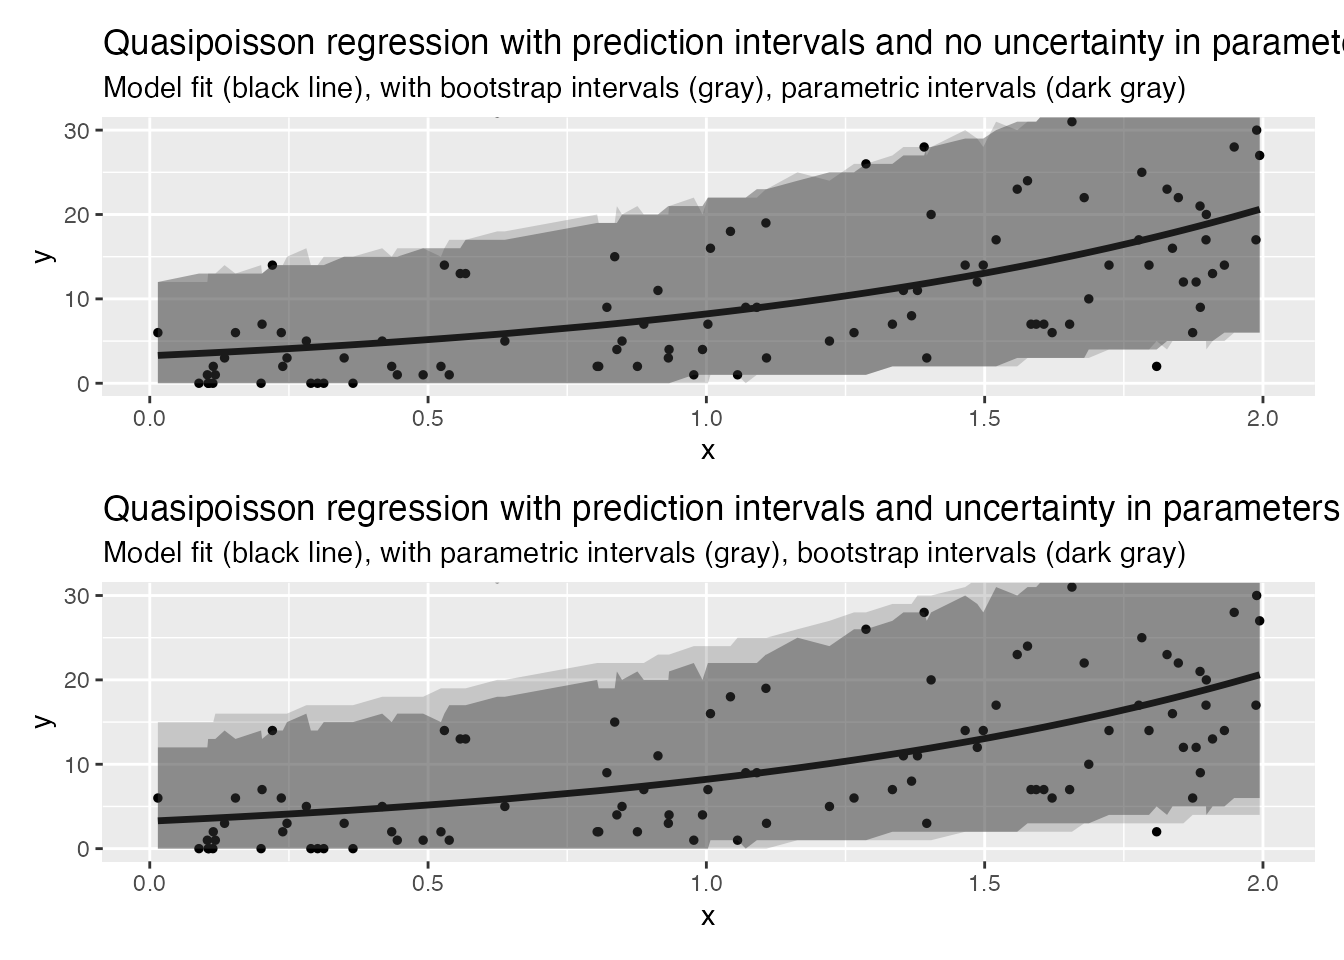
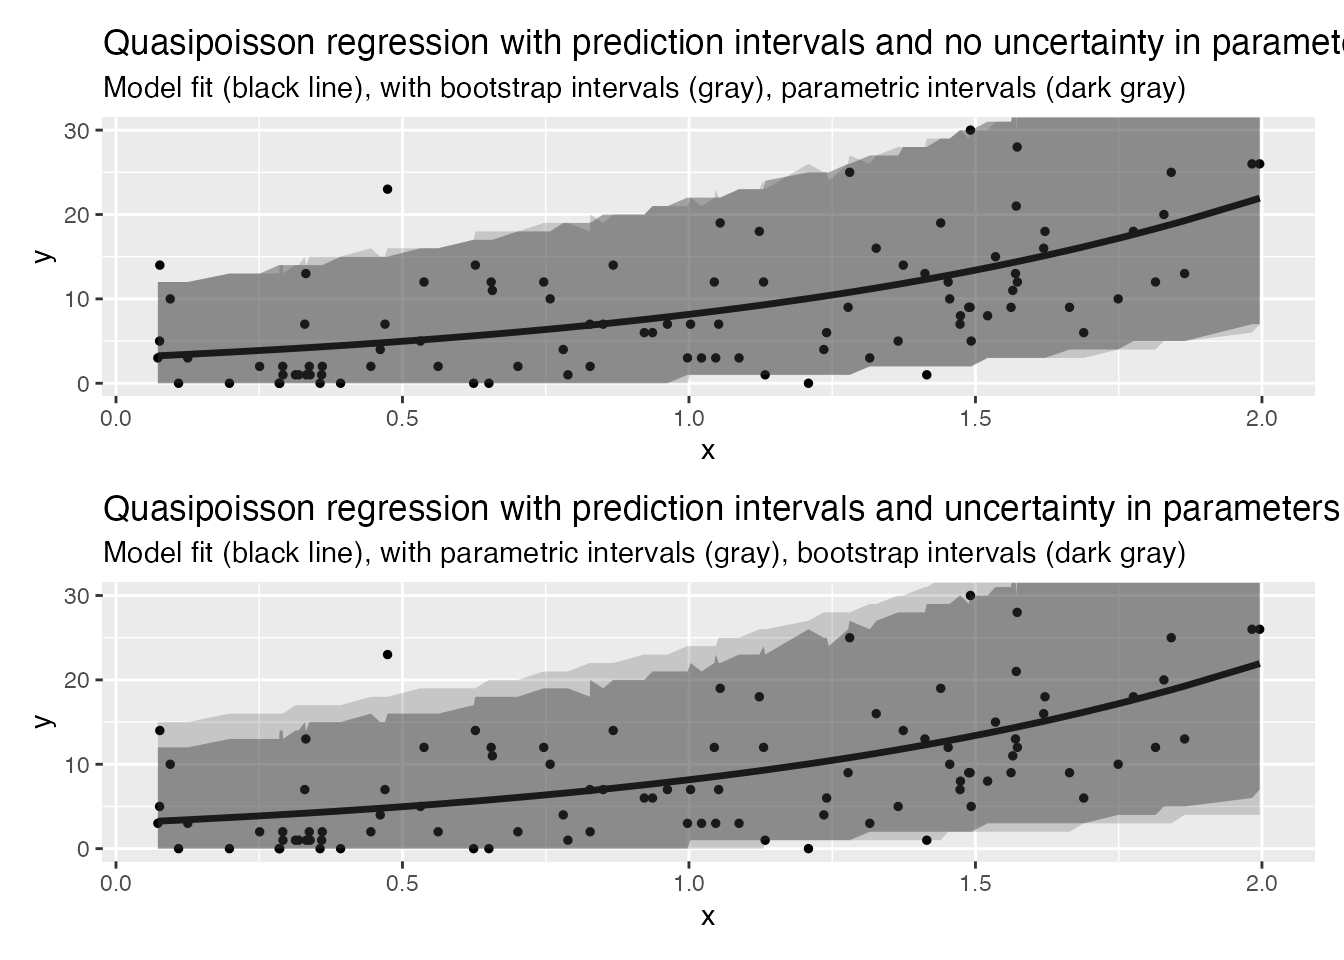
Built site for trending: 0.0.3.9000@8ba3cc6

diff --git a/articles/prediction_intervals.html b/articles/prediction_intervals.html
@@ -141,13 +141,13 @@
 <span class="co">#&gt; Warning in add_pi.glm(dat, fit, names = c("lpb", "upb"), alpha = 0.1, nsims =</span>
 <span class="co">#&gt; 20000): The response is not continuous, so Prediction Intervals are approximate</span>
 <span class="fu"><a href="https://rdrr.io/r/utils/head.html">head</a></span><span class="op">(</span><span class="va">dat1</span><span class="op">)</span>
-<span class="co">#&gt;            x  y     pred lpb upb</span>
-<span class="co">#&gt; 1  0.8838332  7 6.757453   3  11</span>
-<span class="co">#&gt; 2  1.7245814 12 9.931148   5  16</span>
-<span class="co">#&gt; 3  1.0702044  7 7.359535   3  12</span>
-<span class="co">#&gt; 4 -0.3417682  5 3.854989   1   8</span>
-<span class="co">#&gt; 5 -0.6344214  2 3.371455   1   6</span>
-<span class="co">#&gt; 6  0.3210737  6 5.222228   2   9</span>
+<span class="co">#&gt;            x y     pred lpb upb</span>
+<span class="co">#&gt; 1  0.6699941 1 6.518009   3  11</span>
+<span class="co">#&gt; 2 -1.5373920 1 2.231236   0   5</span>
+<span class="co">#&gt; 3 -1.2001174 1 2.628340   0   6</span>
+<span class="co">#&gt; 4 -1.4118811 2 2.371470   0   5</span>
+<span class="co">#&gt; 5 -0.3488140 0 3.974053   1   8</span>
+<span class="co">#&gt; 6 -0.5392615 2 3.622977   1   7</span>
 
 <span class="co"># add intervals with trending (no uncertainty in parameters)</span>
 <span class="va">poisson_model</span> <span class="op">&lt;-</span> <span class="fu"><a href="../reference/trending_model.html">glm_model</a></span><span class="op">(</span><span class="va">y</span> <span class="op">~</span> <span class="va">x</span>, family <span class="op">=</span> <span class="st">"poisson"</span><span class="op">)</span>
@@ -158,12 +158,12 @@
 <span class="co">#&gt; &lt;trending_estimate&gt; 6 x 7</span>
 <span class="co">#&gt;       y      x estimate lower_ci upper_ci lower_pi upper_pi</span>
 <span class="co">#&gt;   &lt;int&gt;  &lt;dbl&gt;    &lt;dbl&gt;    &lt;dbl&gt;    &lt;dbl&gt;    &lt;dbl&gt;    &lt;dbl&gt;</span>
-<span class="co">#&gt; 1     7  0.884     6.76     6.24     7.32        3       11</span>
-<span class="co">#&gt; 2    12  1.72      9.93     8.82    11.2         5       15</span>
-<span class="co">#&gt; 3     7  1.07      7.36     6.75     8.02        3       12</span>
-<span class="co">#&gt; 4     5 -0.342     3.85     3.50     4.24        1        7</span>
-<span class="co">#&gt; 5     2 -0.634     3.37     3.02     3.77        1        7</span>
-<span class="co">#&gt; 6     6  0.321     5.22     4.85     5.62        2        9</span>
+<span class="co">#&gt; 1     1  0.670     6.52     6.08     6.99        3       11</span>
+<span class="co">#&gt; 2     1 -1.54      2.23     1.88     2.65        0        5</span>
+<span class="co">#&gt; 3     1 -1.20      2.63     2.26     3.06        0        6</span>
+<span class="co">#&gt; 4     2 -1.41      2.37     2.01     2.80        0        5</span>
+<span class="co">#&gt; 5     0 -0.349     3.97     3.60     4.39        1        7</span>
+<span class="co">#&gt; 6     2 -0.539     3.62     3.25     4.04        1        7</span>
 
 <span class="co"># add intervals with trending (uncertainty in parameters)</span>
 <span class="va">dat3</span> <span class="op">&lt;-</span> <span class="fu"><a href="https://rdrr.io/r/stats/predict.html">predict</a></span><span class="op">(</span><span class="va">fitted_model</span>, simulate_pi <span class="op">=</span> <span class="cn">FALSE</span>, alpha <span class="op">=</span> <span class="fl">0.1</span><span class="op">)</span>
@@ -172,12 +172,12 @@
 <span class="co">#&gt; &lt;trending_estimate&gt; 6 x 7</span>
 <span class="co">#&gt;       y      x estimate lower_ci upper_ci lower_pi upper_pi</span>
 <span class="co">#&gt;   &lt;int&gt;  &lt;dbl&gt;    &lt;dbl&gt;    &lt;dbl&gt;    &lt;dbl&gt;    &lt;dbl&gt;    &lt;dbl&gt;</span>
-<span class="co">#&gt; 1     7  0.884     6.76     6.24     7.32        2       12</span>
-<span class="co">#&gt; 2    12  1.72      9.93     8.82    11.2         4       17</span>
-<span class="co">#&gt; 3     7  1.07      7.36     6.75     8.02        3       13</span>
-<span class="co">#&gt; 4     5 -0.342     3.85     3.50     4.24        1        8</span>
-<span class="co">#&gt; 5     2 -0.634     3.37     3.02     3.77        1        7</span>
-<span class="co">#&gt; 6     6  0.321     5.22     4.85     5.62        2       10</span>
+<span class="co">#&gt; 1     1  0.670     6.52     6.08     6.99        2       12</span>
+<span class="co">#&gt; 2     1 -1.54      2.23     1.88     2.65        0        6</span>
+<span class="co">#&gt; 3     1 -1.20      2.63     2.26     3.06        0        6</span>
+<span class="co">#&gt; 4     2 -1.41      2.37     2.01     2.80        0        6</span>
+<span class="co">#&gt; 5     0 -0.349     3.97     3.60     4.39        1        8</span>
+<span class="co">#&gt; 6     2 -0.539     3.62     3.25     4.04        1        8</span>
 
 <span class="co"># plots</span>
 <span class="va">p1</span> <span class="op">&lt;-</span> <span class="fu"><a href="https://ggplot2.tidyverse.org/reference/ggplot.html">ggplot</a></span><span class="op">(</span><span class="va">dat1</span>, <span class="fu"><a href="https://ggplot2.tidyverse.org/reference/aes.html">aes</a></span><span class="op">(</span><span class="va">x</span>, <span class="va">y</span><span class="op">)</span><span class="op">)</span> <span class="op">+</span>
@@ -221,13 +221,13 @@
 <span class="co">#&gt; Warning in add_pi.glm(dat, fit, names = c("lpb", "upb"), alpha = 0.1, nsims =</span>
 <span class="co">#&gt; 20000): The response is not continuous, so Prediction Intervals are approximate</span>
 <span class="fu"><a href="https://rdrr.io/r/utils/head.html">head</a></span><span class="op">(</span><span class="va">dat1</span><span class="op">)</span>
-<span class="co">#&gt;           x  y      pred lpb upb</span>
-<span class="co">#&gt; 1 0.3126288  0  4.349800   0  15</span>
-<span class="co">#&gt; 2 1.3686450  8 11.554370   2  28</span>
-<span class="co">#&gt; 3 1.9941016 27 20.608044   6  41</span>
-<span class="co">#&gt; 4 0.1034758  1  3.584575   0  12</span>
-<span class="co">#&gt; 5 0.8761241  2  7.325976   0  21</span>
-<span class="co">#&gt; 6 1.3792806 11 11.668616   2  28</span>
+<span class="co">#&gt;            x  y      pred lpb upb</span>
+<span class="co">#&gt; 1 0.09468288 10  3.324927   0  12</span>
+<span class="co">#&gt; 2 1.74907571 10 17.169789   4  35</span>
+<span class="co">#&gt; 3 0.33883338  1  4.236450   0  15</span>
+<span class="co">#&gt; 4 1.53495223 15 13.883072   3  31</span>
+<span class="co">#&gt; 5 1.12276090 18  9.222447   1  23</span>
+<span class="co">#&gt; 6 0.78060865  4  6.567363   0  19</span>
 
 <span class="co"># add intervals with trending (no uncertainty in parameters)</span>
 <span class="va">quasipoisson_model</span> <span class="op">&lt;-</span> <span class="fu"><a href="../reference/trending_model.html">glm_model</a></span><span class="op">(</span><span class="va">y</span> <span class="op">~</span> <span class="va">x</span>, family <span class="op">=</span> <span class="fu"><a href="https://rdrr.io/r/stats/family.html">quasipoisson</a></span><span class="op">(</span>link <span class="op">=</span> <span class="st">"log"</span><span class="op">)</span><span class="op">)</span>
@@ -236,28 +236,28 @@
 <span class="va">dat2</span> <span class="op">&lt;-</span> <span class="fu"><a href="../reference/accessors.html">get_result</a></span><span class="op">(</span><span class="va">dat2</span><span class="op">)</span>
 <span class="fu"><a href="https://rdrr.io/r/utils/head.html">head</a></span><span class="op">(</span><span class="va">dat2</span><span class="op">)</span>
 <span class="co">#&gt; &lt;trending_estimate&gt; 6 x 7</span>
-<span class="co">#&gt;       y     x estimate lower_ci upper_ci lower_pi upper_pi</span>
-<span class="co">#&gt;   &lt;int&gt; &lt;dbl&gt;    &lt;dbl&gt;    &lt;dbl&gt;    &lt;dbl&gt;    &lt;dbl&gt;    &lt;dbl&gt;</span>
-<span class="co">#&gt; 1     0 0.313     4.35     3.31     5.72        0       14</span>
-<span class="co">#&gt; 2     8 1.37     11.6     10.2     13.1         2       27</span>
-<span class="co">#&gt; 3    27 1.99     20.6     17.1     24.8         6       41</span>
-<span class="co">#&gt; 4     1 0.103     3.58     2.61     4.92        0       13</span>
-<span class="co">#&gt; 5     2 0.876     7.33     6.18     8.68        0       20</span>
-<span class="co">#&gt; 6    11 1.38     11.7     10.3     13.2         2       27</span>
+<span class="co">#&gt;       y      x estimate lower_ci upper_ci lower_pi upper_pi</span>
+<span class="co">#&gt;   &lt;int&gt;  &lt;dbl&gt;    &lt;dbl&gt;    &lt;dbl&gt;    &lt;dbl&gt;    &lt;dbl&gt;    &lt;dbl&gt;</span>
+<span class="co">#&gt; 1    10 0.0947     3.32     2.38     4.65        0       12</span>
+<span class="co">#&gt; 2    10 1.75      17.2     14.3     20.6         4       36</span>
+<span class="co">#&gt; 3     1 0.339      4.24     3.21     5.59        0       14</span>
+<span class="co">#&gt; 4    15 1.53      13.9     12.0     16.1         3       31</span>
+<span class="co">#&gt; 5    18 1.12       9.22     8.05    10.6         1       23</span>
+<span class="co">#&gt; 6     4 0.781      6.57     5.47     7.88        0       19</span>
 
 <span class="co"># add intervals with trending (uncertainty in parameters)</span>
 <span class="va">dat3</span> <span class="op">&lt;-</span> <span class="fu"><a href="https://rdrr.io/r/stats/predict.html">predict</a></span><span class="op">(</span><span class="va">fitted_model</span>, simulate_pi <span class="op">=</span> <span class="cn">FALSE</span>, alpha <span class="op">=</span> <span class="fl">0.1</span><span class="op">)</span>
 <span class="va">dat3</span> <span class="op">&lt;-</span> <span class="fu"><a href="../reference/accessors.html">get_result</a></span><span class="op">(</span><span class="va">dat3</span><span class="op">)</span>
 <span class="fu"><a href="https://rdrr.io/r/utils/head.html">head</a></span><span class="op">(</span><span class="va">dat3</span><span class="op">)</span>
 <span class="co">#&gt; &lt;trending_estimate&gt; 6 x 7</span>
-<span class="co">#&gt;       y     x estimate lower_ci upper_ci lower_pi upper_pi</span>
-<span class="co">#&gt;   &lt;int&gt; &lt;dbl&gt;    &lt;dbl&gt;    &lt;dbl&gt;    &lt;dbl&gt;    &lt;dbl&gt;    &lt;dbl&gt;</span>
-<span class="co">#&gt; 1     0 0.313     4.35     3.31     5.72        0       17</span>
-<span class="co">#&gt; 2     8 1.37     11.6     10.2     13.1         1       29</span>
-<span class="co">#&gt; 3    27 1.99     20.6     17.1     24.8         4       47</span>
-<span class="co">#&gt; 4     1 0.103     3.58     2.61     4.92        0       15</span>
-<span class="co">#&gt; 5     2 0.876     7.33     6.18     8.68        0       22</span>
-<span class="co">#&gt; 6    11 1.38     11.7     10.3     13.2         1       30</span>
+<span class="co">#&gt;       y      x estimate lower_ci upper_ci lower_pi upper_pi</span>
+<span class="co">#&gt;   &lt;int&gt;  &lt;dbl&gt;    &lt;dbl&gt;    &lt;dbl&gt;    &lt;dbl&gt;    &lt;dbl&gt;    &lt;dbl&gt;</span>
+<span class="co">#&gt; 1    10 0.0947     3.32     2.38     4.65        0       15</span>
+<span class="co">#&gt; 2    10 1.75      17.2     14.3     20.6         3       41</span>
+<span class="co">#&gt; 3     1 0.339      4.24     3.21     5.59        0       17</span>
+<span class="co">#&gt; 4    15 1.53      13.9     12.0     16.1         2       34</span>
+<span class="co">#&gt; 5    18 1.12       9.22     8.05    10.6         0       26</span>
+<span class="co">#&gt; 6     4 0.781      6.57     5.47     7.88        0       21</span>
 
 <span class="co"># plots</span>
 <span class="va">p3</span> <span class="op">&lt;-</span> <span class="fu"><a href="https://ggplot2.tidyverse.org/reference/ggplot.html">ggplot</a></span><span class="op">(</span><span class="va">dat1</span>, <span class="fu"><a href="https://ggplot2.tidyverse.org/reference/aes.html">aes</a></span><span class="op">(</span><span class="va">x</span>, <span class="va">y</span><span class="op">)</span><span class="op">)</span> <span class="op">+</span>

diff --git a/articles/Introduction.html b/articles/Introduction.html
@@ -254,20 +254,20 @@
 <span class="co">#&gt; &lt;trending_estimate&gt; 14 x 8</span>
 <span class="co">#&gt;    date         day weekday      estimate lower_ci upper_ci lower_pi upper_pi</span>
 <span class="co">#&gt;    &lt;date&gt;     &lt;int&gt; &lt;fct&gt;           &lt;dbl&gt;    &lt;dbl&gt;    &lt;dbl&gt;    &lt;dbl&gt;    &lt;dbl&gt;</span>
-<span class="co">#&gt;  1 2020-05-15    58 rest_of_week   12682.   11390.   14122.     8864    17082</span>
-<span class="co">#&gt;  2 2020-05-16    59 weekend        10625.    9299.   12140.     7346    14484</span>
-<span class="co">#&gt;  3 2020-05-17    60 weekend        10262.    8956.   11759.     7161    13913</span>
-<span class="co">#&gt;  4 2020-05-18    61 monday         13840.   11749.   16303.     9567    19003</span>
-<span class="co">#&gt;  5 2020-05-19    62 rest_of_week   11036.    9782.   12450.     7596    15073</span>
-<span class="co">#&gt;  6 2020-05-20    63 rest_of_week   10659.    9416.   12066.     7354    14581</span>
-<span class="co">#&gt;  7 2020-05-21    64 rest_of_week   10295.    9064.   11693.     7177    13884</span>
-<span class="co">#&gt;  8 2020-05-22    65 rest_of_week    9943.    8724.   11333.     6968    13431</span>
-<span class="co">#&gt;  9 2020-05-23    66 weekend         8330.    7138.    9721.     5783    11554</span>
-<span class="co">#&gt; 10 2020-05-24    67 weekend         8045.    6872.    9419.     5598    11033</span>
-<span class="co">#&gt; 11 2020-05-25    68 monday         10851.    9048.   13012.     7213    14977</span>
-<span class="co">#&gt; 12 2020-05-26    69 rest_of_week    8652.    7486.   10001.     5915    11716</span>
-<span class="co">#&gt; 13 2020-05-27    70 rest_of_week    8357.    7204.    9694.     5725    11402</span>
-<span class="co">#&gt; 14 2020-05-28    71 rest_of_week    8071.    6933.    9396.     5544    11272</span></code></pre></div>
+<span class="co">#&gt;  1 2020-05-15    58 rest_of_week   12682.   11390.   14122.     8945    17188</span>
+<span class="co">#&gt;  2 2020-05-16    59 weekend        10625.    9299.   12140.     7343    14709</span>
+<span class="co">#&gt;  3 2020-05-17    60 weekend        10262.    8956.   11759.     7246    14039</span>
+<span class="co">#&gt;  4 2020-05-18    61 monday         13840.   11749.   16303.     9606    18846</span>
+<span class="co">#&gt;  5 2020-05-19    62 rest_of_week   11036.    9782.   12450.     7722    15050</span>
+<span class="co">#&gt;  6 2020-05-20    63 rest_of_week   10659.    9416.   12066.     7495    14571</span>
+<span class="co">#&gt;  7 2020-05-21    64 rest_of_week   10295.    9064.   11693.     7168    14094</span>
+<span class="co">#&gt;  8 2020-05-22    65 rest_of_week    9943.    8724.   11333.     6931    13643</span>
+<span class="co">#&gt;  9 2020-05-23    66 weekend         8330.    7138.    9721.     5791    11481</span>
+<span class="co">#&gt; 10 2020-05-24    67 weekend         8045.    6872.    9419.     5573    11089</span>
+<span class="co">#&gt; 11 2020-05-25    68 monday         10851.    9048.   13012.     7513    15315</span>
+<span class="co">#&gt; 12 2020-05-26    69 rest_of_week    8652.    7486.   10001.     6044    12261</span>
+<span class="co">#&gt; 13 2020-05-27    70 rest_of_week    8357.    7204.    9694.     5963    11405</span>
+<span class="co">#&gt; 14 2020-05-28    71 rest_of_week    8071.    6933.    9396.     5549    11383</span></code></pre></div>
 </div>
 <div id="example-of-failed-model-fitting" class="section level2">
 <h2 class="hasAnchor">

diff --git a/reference/accessors.html b/reference/accessors.html
@@ -271,7 +271,7 @@
 #&gt; Null Deviance:	    233.5 
 #&gt; Residual Deviance: 114.8 	AIC: 446</div><div class='input'><span class='fu'>get_formula</span><span class='op'>(</span><span class='va'>fitted_poisson</span><span class='op'>)</span>
 </div><div class='output co'>#&gt; y ~ x
-#&gt; &lt;environment: 0x7f80af121940&gt;</div><div class='input'><span class='fu'>get_response</span><span class='op'>(</span><span class='va'>fitted_poisson</span><span class='op'>)</span>
+#&gt; &lt;environment: 0x7faf6f1473b0&gt;</div><div class='input'><span class='fu'>get_response</span><span class='op'>(</span><span class='va'>fitted_poisson</span><span class='op'>)</span>
 </div><div class='output co'>#&gt; [1] "y"</div><div class='input'><span class='fu'>get_predictors</span><span class='op'>(</span><span class='va'>fitted_poisson</span><span class='op'>)</span>
 </div><div class='output co'>#&gt; [1] "x"</div><div class='input'>
 </div></pre>
